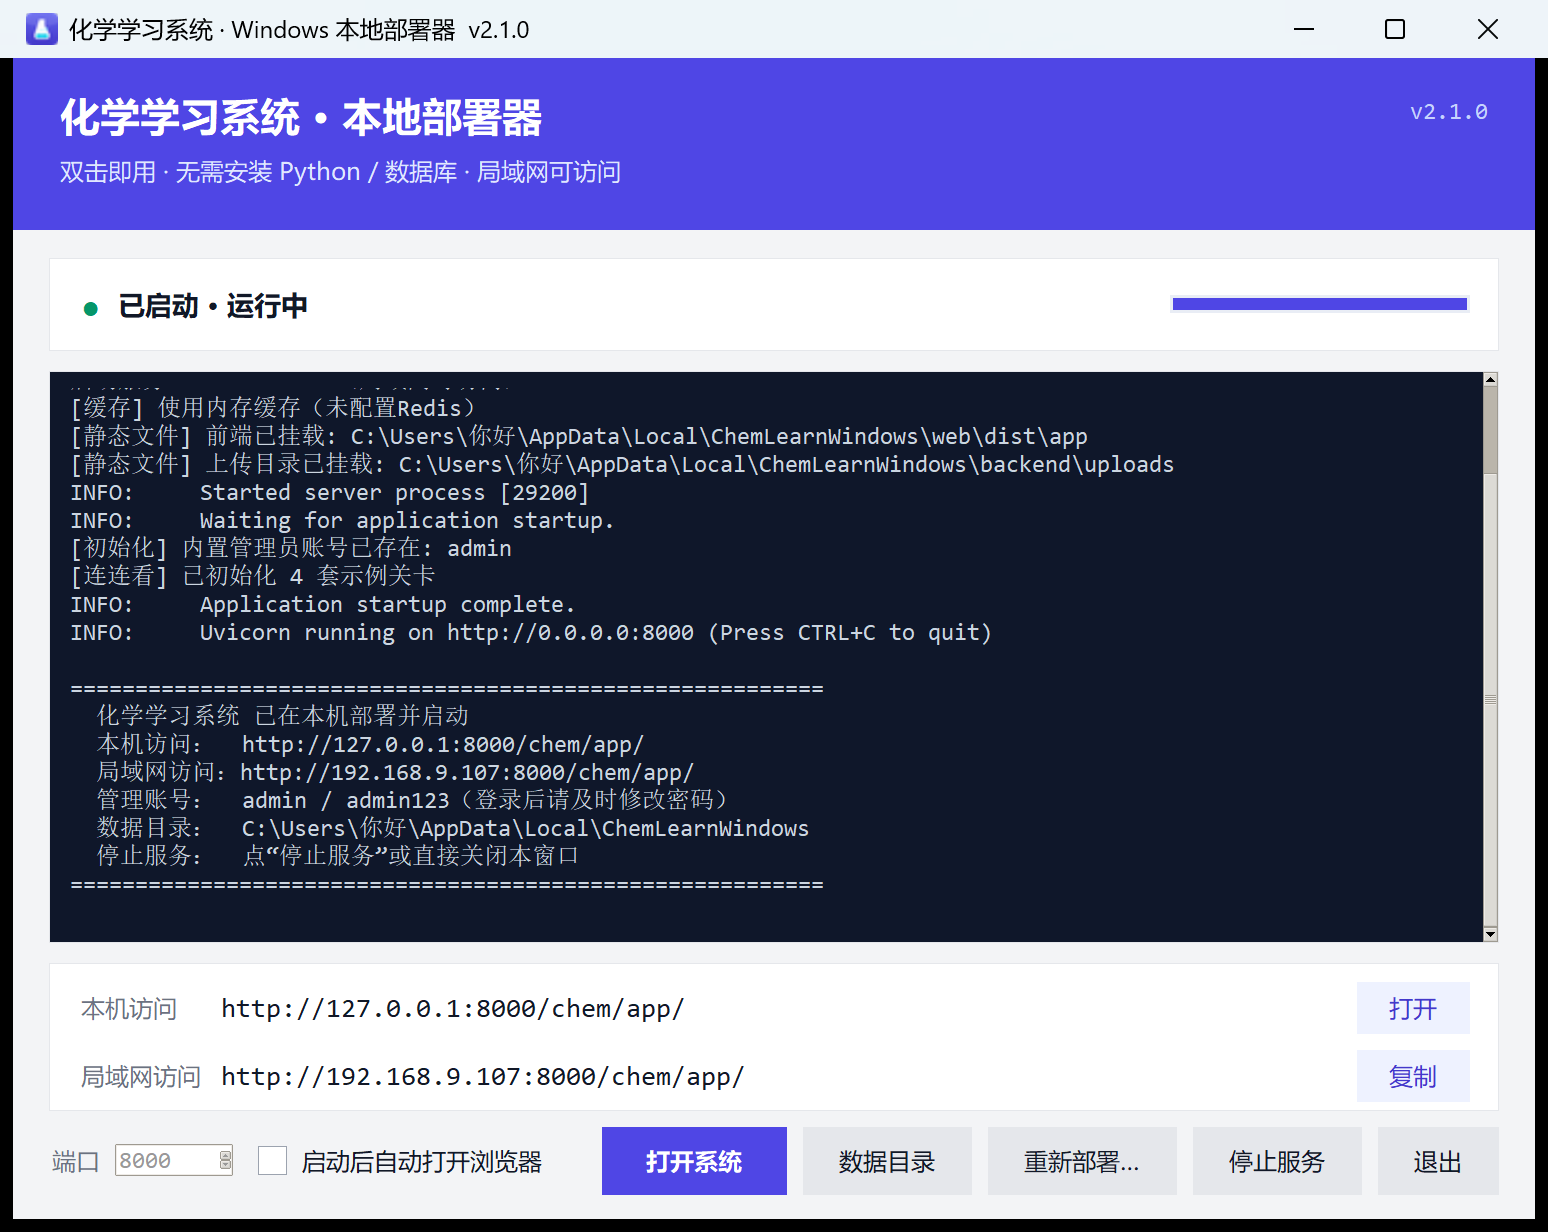
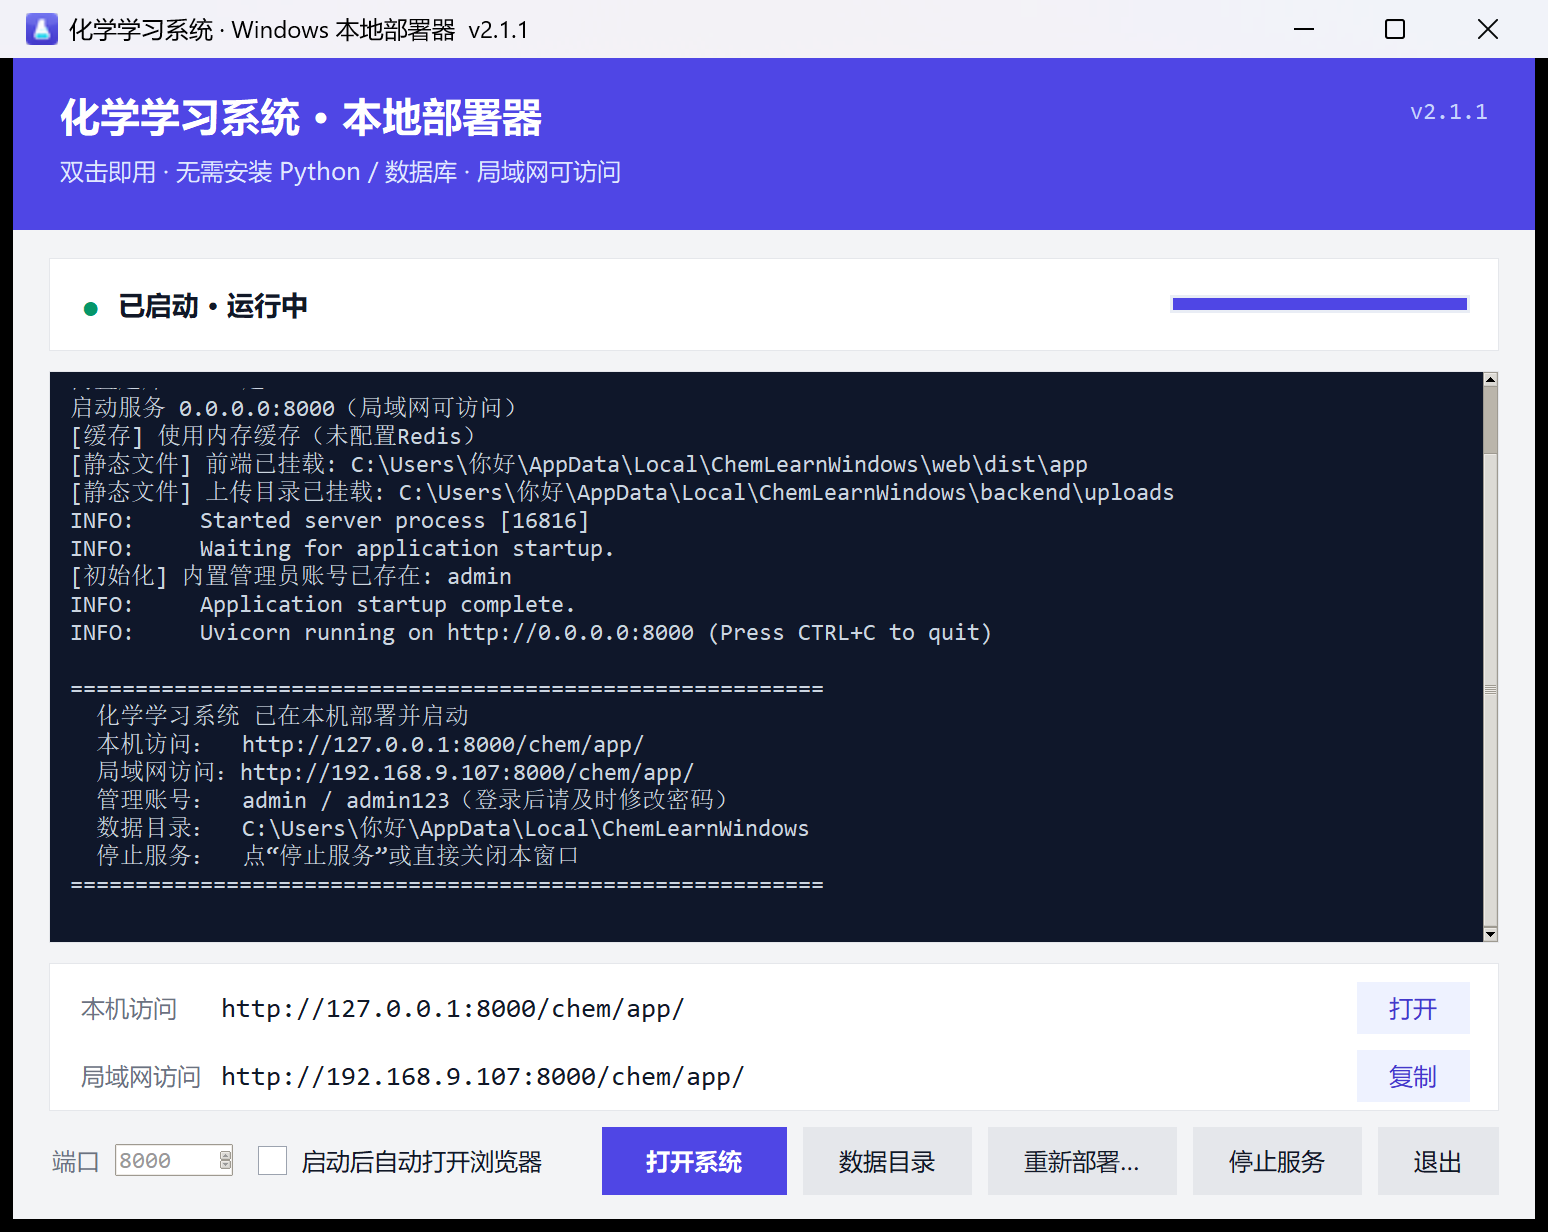
fix(ui): 暗色模式下看板筛选 chip hover 变白；部署器 v2.1.1
- 暗色主题 --brand-50 仍是浅色，nav-chip hover 背景改成半透明靛蓝 + 浅紫文字
- Windows 部署器升到 2.1.1（包含该前端修复），更新截图与使用说明

Changed region(s): [[0.031, 0.3084, 0.7752, 0.4935]]

diff --git a/web/src/views/admin/Dashboard.vue b/web/src/views/admin/Dashboard.vue
@@ -323,6 +323,12 @@ onMounted(() => loadAll())
   color: var(--brand-600);
   transform: translateY(-1px);
 }
+/* 暗色模式下 brand-50 仍是浅色，hover 会变成一块白底；改成半透明靛蓝 */
+html.dark .nav-chip:hover {
+  background: rgba(99, 102, 241, 0.18);
+  border-color: var(--brand-500);
+  color: var(--brand-300);
+}
 
 /* 板块锚点 */
 .section-anchor { scroll-margin-top: 84px; }

diff --git a/deployer/windows/win_deployer.py b/deployer/windows/win_deployer.py
@@ -16,7 +16,7 @@
     ChemLearnWindows.exe --reset            重新部署（清空用户数据，恢复内置题库）
     ChemLearnWindows.exe --console          纯命令行模式（排障用，窗口里能看到日志）
 """
-VERSION = "2.1.0"
+VERSION = "2.1.1"
 APP_NAME = "化学学习系统"
 DATA_FOLDER = "ChemLearnWindows"
 PAYLOAD_NAME = "payload_chem.tar.gz"

diff --git a/README.md b/README.md
@@ -1,4 +1,4 @@
-# 化学学习系统 · ChemLearn
+# 化学学习系统 · ChemLearn
 
 [![CI](https://github.com/houshibo0101/chemlearn/actions/workflows/ci.yml/badge.svg)](https://github.com/houshibo0101/chemlearn/actions/workflows/ci.yml)
 
@@ -34,7 +34,7 @@
 | 文件 | 平台 | 说明 |
 |---|---|---|
 | [ChemLearn-Deployer-v1.3.0.exe](https://github.com/houshibo0101/chemlearn/releases/tag/v1.3.0) | Linux 服务器 | 填 IP、SSH 密码和 AI Key，自动装好 nginx / Python / systemd，3–6 分钟完成 |
-| [ChemLearnWindows-v2.1.0.exe](https://github.com/houshibo0101/chemlearn/releases/tag/windows-v2.1.0) | Windows 本机 | 双击部署到本机，界面里看地址 / 开系统 / 重置，局域网可访问 |
+| [ChemLearnWindows-v2.1.1.exe](https://github.com/houshibo0101/chemlearn/releases/tag/windows-v2.1.1) | Windows 本机 | 双击部署到本机，界面里看地址 / 开系统 / 重置，局域网可访问 |
 | [题库数据包 453 题](https://github.com/houshibo0101/chemlearn/releases/tag/question-bank-v1) | 通用 | 解压到 `backend/import_data/` 后跑导入脚本 |
 
 > Linux 部署器内置完整部署包（源码 + 前端 + 依赖清单），目标机只需能联网的 Ubuntu / Debian。
